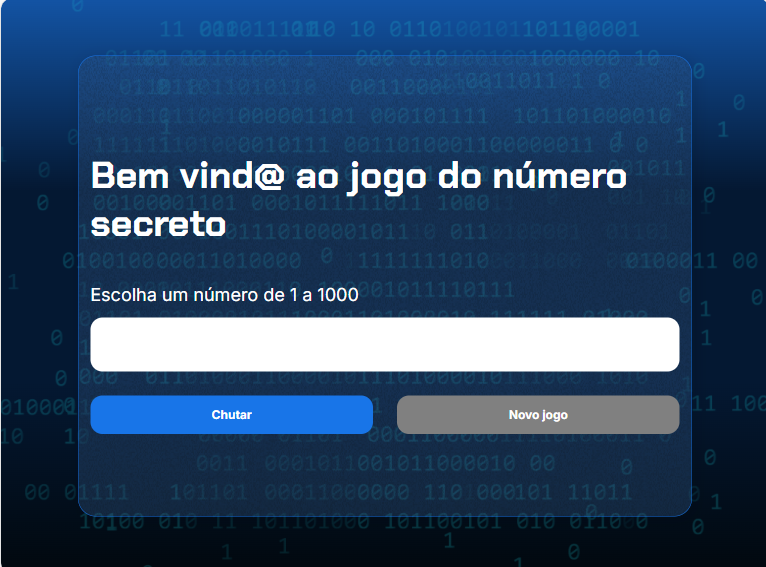
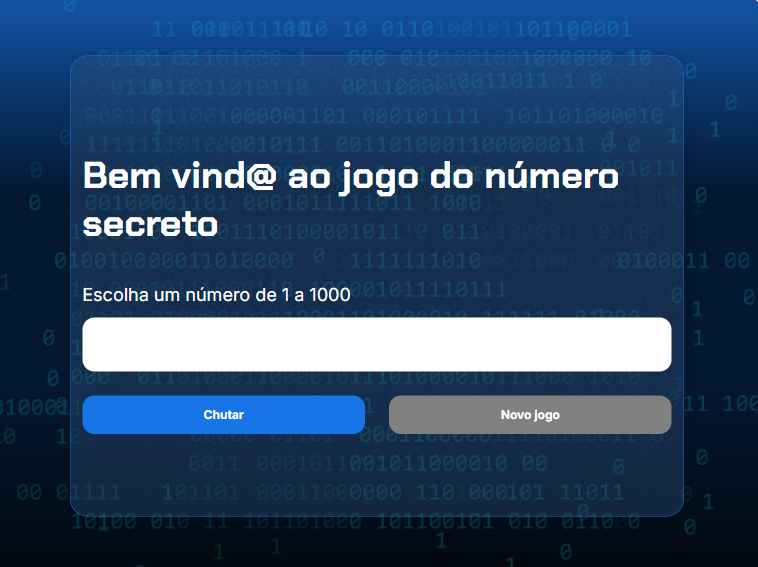
adicionar readme

diff --git a/js-curso-2-aula_-/README.md b/js-curso-2-aula_-/README.md
@@ -1,0 +1,28 @@
+
+![Descricao da sua imagem](./img/Programação-Projeto%20do%20Jogo%20Secreto%20#ONE7.png)
+
+
+# Jogo do Número Secreto
+
+Game de advinhação do número secreto, feito nos cursos de HTML e JavaScript, através do Oracle Next Education - Turma  07
+
+## 🔨 Funcionalidades do projeto
+
+O projeto consiste em um jogo que gera números aleatórios de 1 a N, e contém um campo de entrada cujo jogador irá lançar palpites. A cada tentativa, o jogo retorna se o valor enviado é maior ou menor que o número secreto definido no início da rodada. Munido dessas informações, o player deverá ir realizando palpites até que acerte qual era o número sorteado. No caso do acerto, a aplicação retornará qual o número de tentativas necessárias até o palpite correto. 
+
+![](https://github.com/brluca-s/projeto-numero-secreto/blob/44a075b1682e8ad026417d4d381c02a443c864e9/js-curso-2-aula_-/img/main_page.png)
+
+
+## ✔ Linguagens usadas:
+
+HTML, CSS e JavaScript
+
+
+## 🎯 Desafio
+
+Tela de detalhes do produto
+
+![](./img/main_page.png)
+
+## 📁 Acesso ao projeto
+
